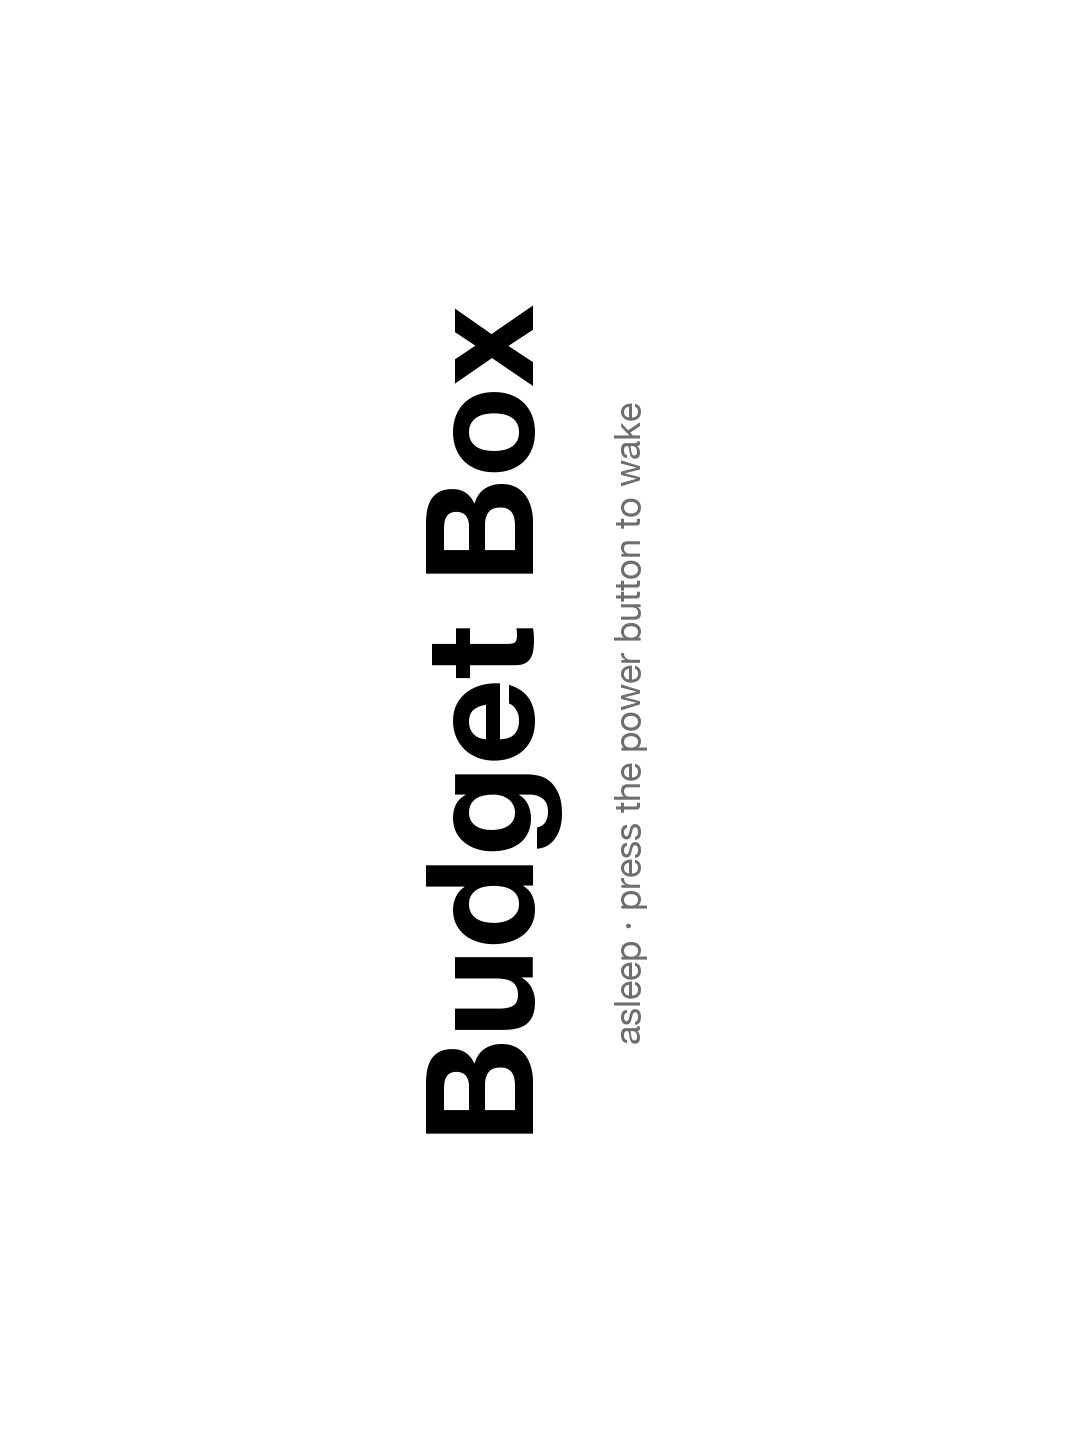
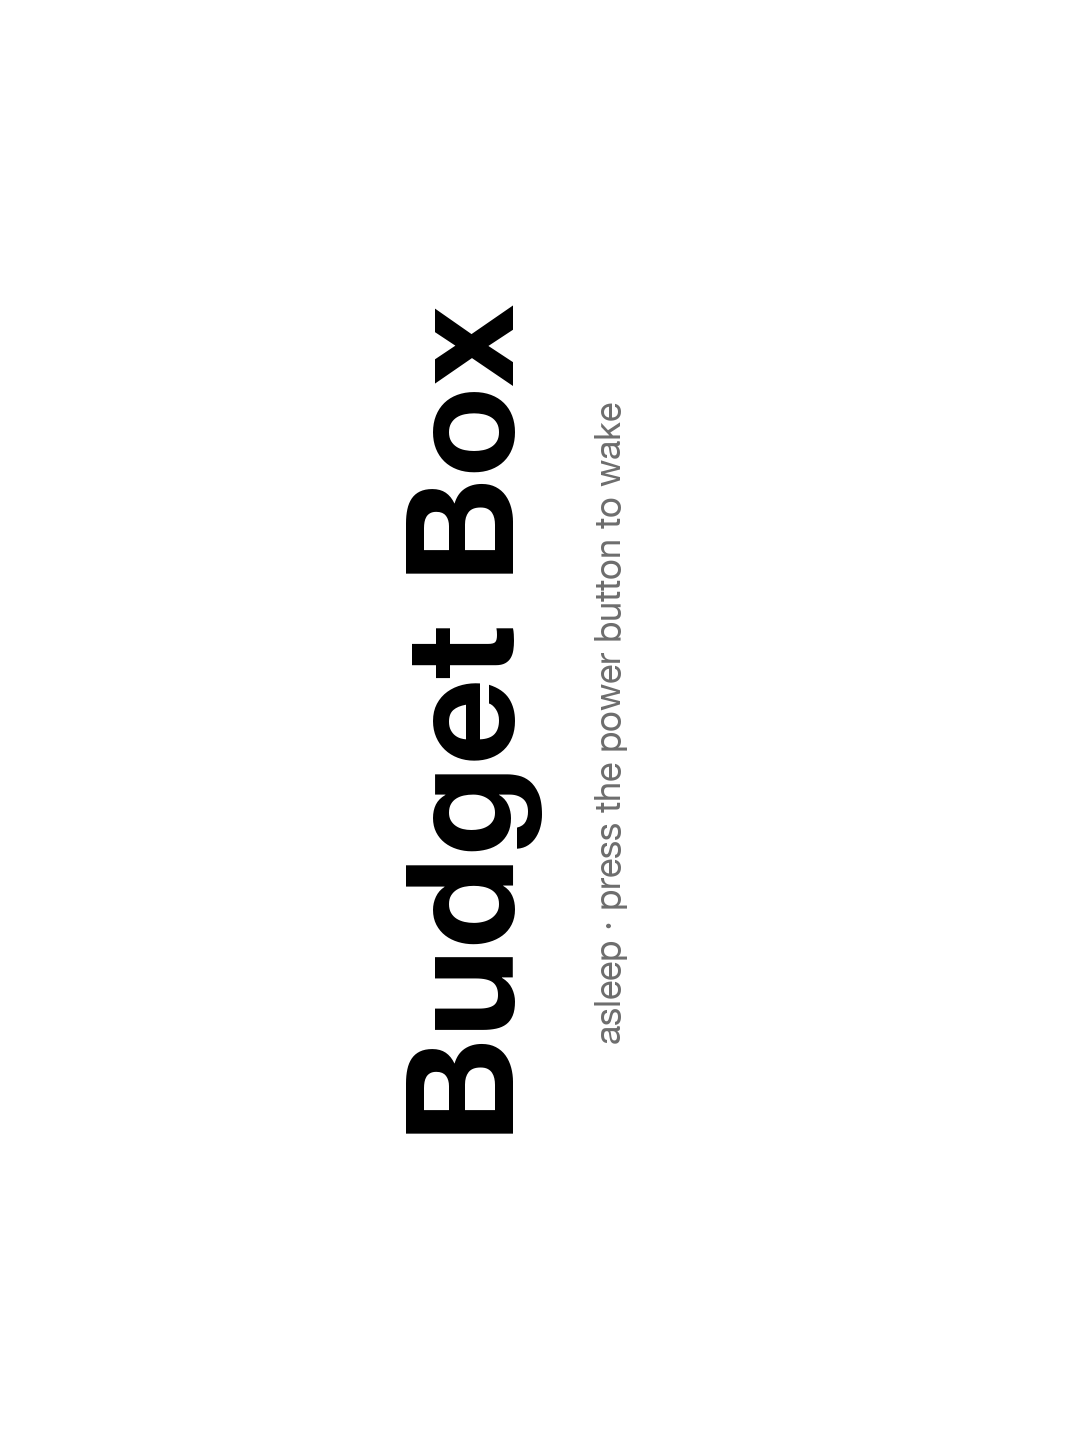
Device: wake to a spinning pixel-art coin instead of a stale page
On wake the screen clears to a 1-bit euro coin that spins (16 frames,
redrawn in its own box with a fast two-level waveform) until fresh data is
drawn; taps are ignored meanwhile. Replaces the Updating banner over the
last page. make_images.py draws the frames.

Changed region(s): [[0.3694, 0.4351, 0.5233, 0.808], [0.5541, 0.2797, 0.6157, 0.7148], [0.3694, 0.2175, 0.5233, 0.404]]

diff --git a/device/make_images.py b/device/make_images.py
@@ -1,9 +1,15 @@
-"""Regenerate the two static screens the device draws without the server: sleep.png (shown
-while suspended) and updating.png (a banner laid over the last page on wake, until fresh data
-arrives). Run from the repo root: python device/make_images.py
+"""Regenerate the static screens the device draws without the server. Run from the repo root:
+    python device/make_images.py
 
-Both are drawn landscape and rotated to the portrait framebuffer, matching ROTATE=90.
-updating.png covers the footer's "as of" line: dash.sh places it at x=992 on the framebuffer."""
+- sleep.png        shown while suspended
+- waking.png       shown on wake until fresh data arrives: a blank screen with the coin
+- loading/NN.png   frames of a spinning pixel-art euro coin, redrawn in place by loading.sh
+- loading/pos      where the frames go on the framebuffer: "x y"
+
+The coin is pure black and white on purpose: loading.sh animates it with a fast two-level
+e-ink waveform, which can't show grays. Everything is drawn landscape and rotated to the
+portrait framebuffer, matching ROTATE=90."""
+import math
 import sys
 from pathlib import Path
 
@@ -15,13 +21,83 @@ from budget_box.render import font  # noqa: E402
 W, H = 1448, 1072
 OUT = Path(__file__).resolve().parent
 
+
+def portrait(img):
+    return img.rotate(90, expand=True)
+
+
+# -- sleep -------------------------------------------------------------------------
 img = Image.new("L", (W, H), 255)
 d = ImageDraw.Draw(img)
-d.text((W // 2, H // 2 - 60), "Budget Box", font=font(150, True), fill=0, anchor="mm")
-d.text((W // 2, H // 2 + 90), "asleep · press the power button to wake", font=font(36), fill=110, anchor="mm")
-img.rotate(90, expand=True).save(OUT / "sleep.png", optimize=True)
+d.text((W // 2, H // 2 - 80), "Budget Box", font=font(150, True), fill=0, anchor="mm")
+d.text((W // 2, H // 2 + 70), "asleep · press the power button to wake", font=font(36), fill=110, anchor="mm")
+portrait(img).save(OUT / "sleep.png", optimize=True)
 
-band = Image.new("L", (W, 70), 255)
-ImageDraw.Draw(band).text((W // 2, 30), "Updating…", font=font(30, True), fill=0, anchor="mm")
-band.rotate(90, expand=True).save(OUT / "updating.png", optimize=True)
-print("wrote", OUT / "sleep.png", OUT / "updating.png")
+# -- the coin ----------------------------------------------------------------------
+GRID = 44          # sprite resolution in "pixels"
+SCALE = 9          # each sprite pixel becomes 9x9 screen pixels -> 396 px
+FRAMES = 16
+R = 18             # coin radius in sprite pixels
+THICK = 3          # rim thickness in sprite pixels
+
+
+def face(width: int) -> Image.Image:
+    """The coin face squashed to `width` sprite pixels wide (1-bit)."""
+    big = 8                                   # draw the face large, then squash: crisper glyph
+    D = 2 * R * big
+    f = Image.new("L", (D, D), 255)
+    g = ImageDraw.Draw(f)
+    g.ellipse([0, 0, D - 1, D - 1], fill=255, outline=0, width=2 * big)
+    g.ellipse([5 * big, 5 * big, D - 1 - 5 * big, D - 1 - 5 * big], outline=0, width=big)
+    g.text((D // 2, D // 2 + big), "€", font=font(int(D * 0.5), True), fill=0, anchor="mm")
+    f = f.resize((max(width, 1), 2 * R), Image.LANCZOS)
+    return f.point(lambda v: 0 if v < 140 else 255)
+
+
+def frame(theta: float) -> Image.Image:
+    spr = Image.new("L", (GRID, GRID), 255)
+    s = ImageDraw.Draw(spr)
+    c = math.cos(theta)
+    w = round(2 * R * abs(c))
+    cx, top = GRID // 2, GRID // 2 - R
+    # the rim: a solid band the coin's thickness wide, on the side turning away; none face-on
+    rim = round(THICK * abs(math.sin(theta)))
+    side = 1 if math.sin(theta) * c > 0 else -1
+    if w > 2:
+        x0 = cx - w // 2
+        for k in range(1, rim + 1):
+            s.ellipse([x0 + side * k, top, x0 + side * k + w - 1, top + 2 * R - 1], fill=0)
+        # the face itself (white disc with black art) over the rim
+        f = face(w)
+        mask = Image.new("L", f.size, 0)
+        ImageDraw.Draw(mask).ellipse([0, 0, f.width - 1, f.height - 1], fill=255)
+        spr.paste(f, (x0, top), mask)
+    else:
+        # edge-on: just the rim, a vertical bar
+        s.rectangle([cx - THICK // 2 - 1, top, cx + THICK // 2, top + 2 * R - 1], fill=0)
+    # a little shadow line under the coin, shrinking with it, grounds the spin
+    sw = max(4, round((w or THICK) * 0.8))
+    s.line([cx - sw // 2, top + 2 * R + 3, cx + sw // 2, top + 2 * R + 3], fill=0, width=1)
+    return spr.resize((GRID * SCALE, GRID * SCALE), Image.NEAREST)
+
+
+frames = [frame(2 * math.pi * i / FRAMES) for i in range(FRAMES)]
+fw = fh = GRID * SCALE
+X0, Y0 = (W - fw) // 2, (H - fh) // 2       # landscape top-left of the sprite box
+
+waking = Image.new("L", (W, H), 255)
+waking.paste(frames[0], (X0, Y0))
+portrait(waking).save(OUT / "waking.png", optimize=True)
+
+out = OUT / "loading"
+out.mkdir(exist_ok=True)
+for old in out.glob("*.png"):
+    old.unlink()
+for i, f in enumerate(frames):
+    portrait(f).save(out / f"{i:02d}.png", optimize=True)
+# PIL's rotate(90) maps landscape (x, y) to portrait (y, W - 1 - x): the box's landscape
+# top-left (X0, Y0) lands at portrait x = Y0, y = W - (X0 + fw).
+(out / "pos").write_text(f"{Y0} {W - (X0 + fw)}\n")
+for stale in ("updating.png",):
+    (OUT / stale).unlink(missing_ok=True)
+print(f"wrote sleep.png, waking.png and {FRAMES} frames ({fw}px) at", (out / "pos").read_text().strip())

diff --git a/README.md b/README.md
@@ -60,6 +60,7 @@ with SSH; the kernel and system are untouched apart from one boot job.
 | `dash.sh` | Takes over the screen, fetches and paints pages, holds the long poll, backs off and shows "offline since" when the network drops. |
 | `touch.sh` + `touch.awk` | Reads raw touchscreen events and turns any tap into "next page". |
 | `button.sh` | Power button: draws the Budget Box screen and suspends. The next press wakes it. |
+| `loading.sh` | The spinning coin shown while waking, redrawn in place with a fast waveform. |
 
 ### Things the hardware taught me
 
@@ -86,10 +87,15 @@ with SSH; the kernel and system are untouched apart from one boot job.
   through, and `eips -c` turns out to be a partial update too. Page turns, waking and sleeping use
   a full-waveform update (`eips -f`); in-place number changes stay partial with a full refresh
   every few redraws.
-- **Instant wake.** Wi-Fi takes 20–30 s to come back after suspend, so on wake the device shows the
-  last page right away with an "Updating…" banner over its timestamp, until fresh data arrives.
+- **Waking up.** Wi-Fi takes 20–30 s to come back after suspend, so on wake the screen clears to a
+  spinning pixel-art euro coin until fresh data arrives, and taps are ignored meanwhile. The coin
+  is pure black and white and only its own box is redrawn, with the fast two-level waveform, so it
+  animates at several frames a second without flashing the screen.
 
-<p align="center"><img src="docs/screens/sleep.png" width="49%" alt="Sleep screen"></p>
+<p align="center">
+  <img src="docs/screens/sleep.png" width="49%" alt="Sleep screen">
+  <img src="docs/screens/waking.gif" width="24%" alt="Waking animation: a spinning pixel-art euro coin">
+</p>
 
 ## Run it
 
